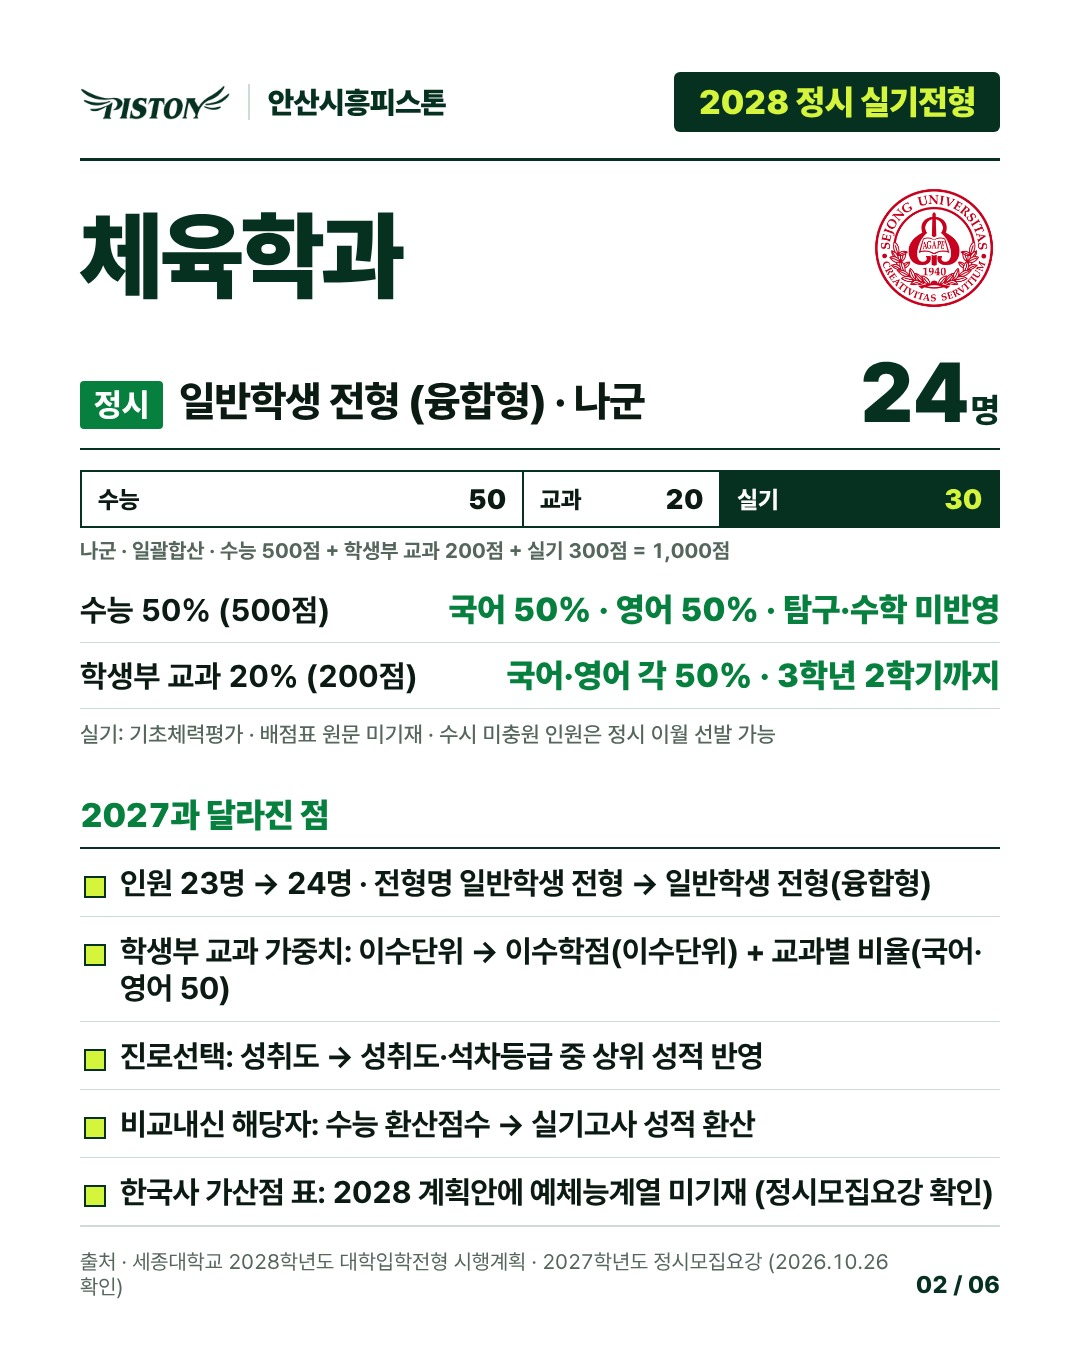
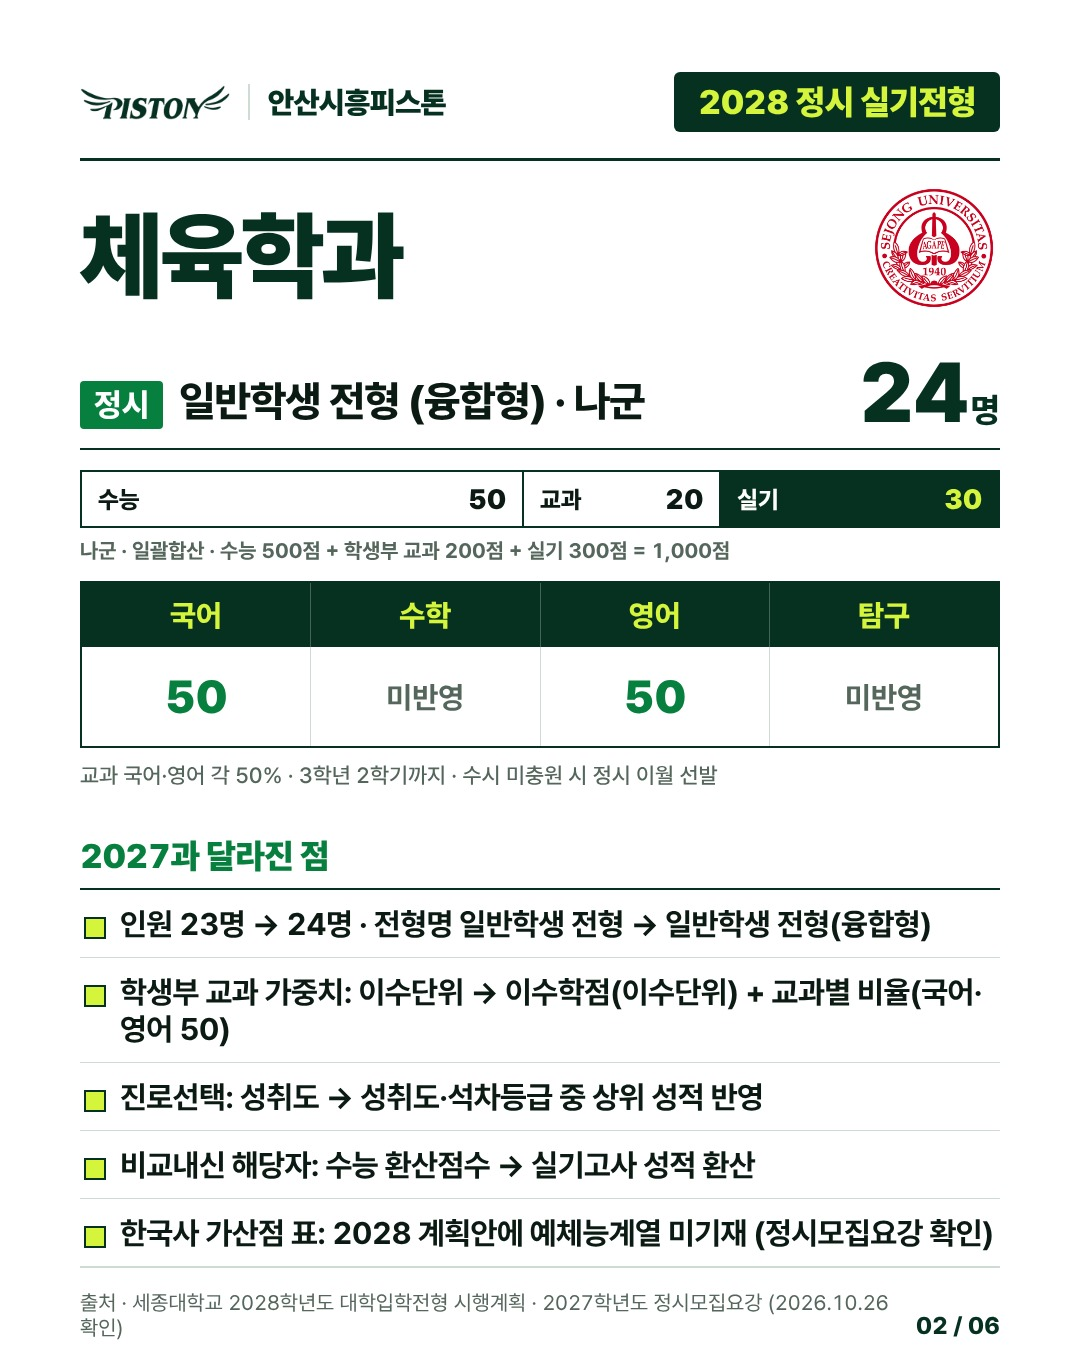
세종대 정시: 반영방법 표 양식
Claude-Session: https://claude.ai/code/session_01EGTn7G8nWP1yv5M2jqmoFb

Changed region(s): [[0.0611, 0.4044, 0.9472, 0.9956]]

diff --git a/social/out/sejong-jeongsi-jeongsi/blog.md b/social/out/sejong-jeongsi-jeongsi/blog.md
@@ -3,15 +3,15 @@
 서울 세종대 체대입시를 준비한다면, 2028학년도 전형계획에서 꼭 볼 것만 정리했습니다.
 
 ## 결론 먼저
-- **체육학과**: 정시 나군 24명 (정시 제자리 멀리뛰기·메디신볼 던지기·20M 왕복달리기)
+- **체육학과**: 정시 나군 24명 (정시 )
 
 [이미지: post-1.jpg]
 
 ## 체육학과
 ### 정시 일반학생 전형 (융합형) · 나군 — 24명
 - 반영비율: 수능 50% + 교과 20% + 실기 30% (나군 · 일괄합산 · 수능 500점 + 학생부 교과 200점 + 실기 300점 = 1,000점)
-- 실기종목: 제자리 멀리뛰기 배점 원문 미기재, 메디신볼 던지기 배점 원문 미기재, 20M 왕복달리기 배점 원문 미기재
-- 실기: 기초체력평가 · 배점표 원문 미기재 · 수시 미충원 인원은 정시 이월 선발 가능
+- 실기종목: 
+- 교과 국어·영어 각 50% · 3학년 2학기까지 · 수시 미충원 시 정시 이월 선발
 
 [이미지: post-2.jpg]
 
